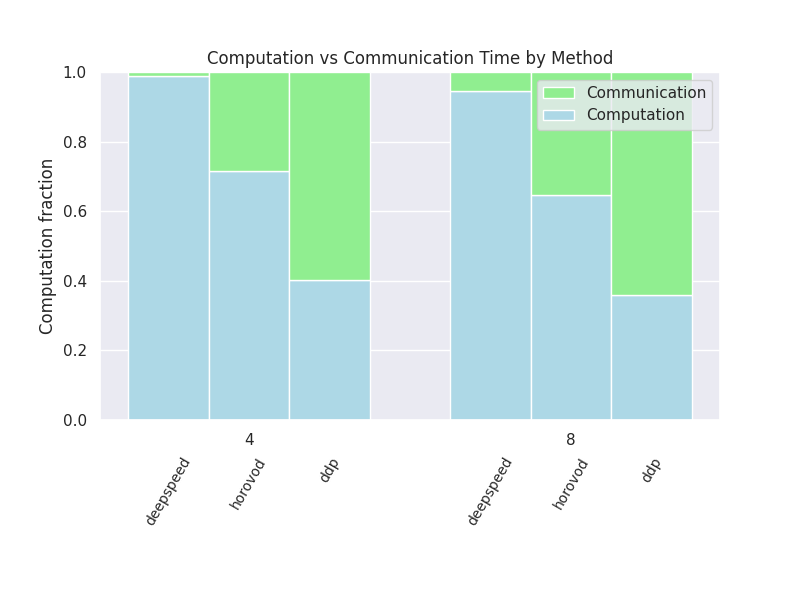
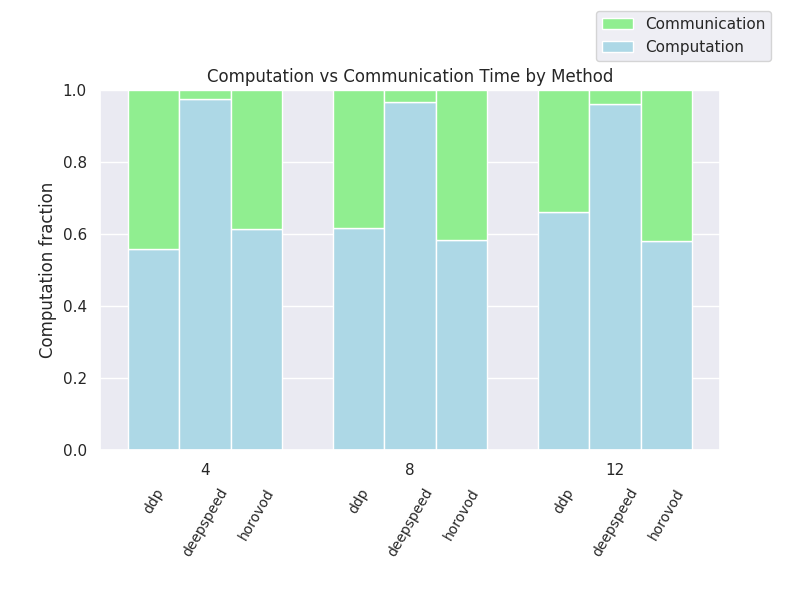
add docstrings etc.

diff --git a/scaling-test/plot.py b/scaling-test/plot.py
@@ -1,25 +1,28 @@
-from typing import List, Tuple, Any
+from typing import Any, List, Tuple
 
 import matplotlib.pyplot as plt
 import numpy as np
 from matplotlib.patches import Patch
 
 
-def create_stacked_plot(values: np.ndarray, strategy_labels: List, gpu_numbers: List) -> Tuple[Any, Any]:
-    """Creates a stacked plot showing values from 0 to 1, where the given value 
-    will be placed on the bottom and the complement will be placed on top for 
-    each value in 'values'. 
-    
-    Notes: 
-        - Assumes that the rows of 'values' correspond to the labels in 
-            'strategy_labels' sorted alphabetically and that the columns 
-            correspond to the GPU numbers in 'gpu_numbers' sorted numerically 
-            in ascending order. 
+def create_stacked_plot(
+    values: np.ndarray, strategy_labels: List, gpu_numbers: List
+) -> Tuple[Any, Any]:
+    """Creates a stacked plot showing values from 0 to 1, where the given value
+    will be placed on the bottom and the complement will be placed on top for
+    each value in 'values'. Returns the figure and the axis so that the caller can
+    do what they want with it, e.g. save to file, change it or just show it.
+
+    Notes:
+        - Assumes that the rows of 'values' correspond to the labels in
+            'strategy_labels' sorted alphabetically and that the columns
+            correspond to the GPU numbers in 'gpu_numbers' sorted numerically
+            in ascending order.
     """
     assert values.shape[0] == len(strategy_labels)
     assert values.shape[1] == len(gpu_numbers)
     assert (values >= 0).all() and (values <= 1).all()
-    
+
     strategy_labels = sorted(strategy_labels)
     gpu_numbers = sorted(gpu_numbers, key=lambda x: int(x))
 
@@ -77,6 +80,15 @@ def create_stacked_plot(values: np.ndarray, strategy_labels: List, gpu_numbers: 
         Patch(facecolor=comm_color, label="Communication"),
         Patch(facecolor=comp_color, label="Computation"),
     ]
-    ax.legend(handles=legend_elements, loc="upper right")
-    fig.subplots_adjust(bottom=0.3)
+    # ax.legend(handles=legend_elements, loc="upper right")
+    # ax.legend(handles=legend_elements, loc="upper right", bbox_to_anchor=(1.2, 1))
+
+    ax.legend(
+        handles=legend_elements,
+        loc="upper left",  # Anchor point of the legend
+        bbox_to_anchor=(0.80, 1.22),  # Position outside the plot
+        borderaxespad=0.0,  # No padding between legend and axes
+    )
+    fig.subplots_adjust(bottom=0.25)
+    fig.subplots_adjust(top=0.85)
     return fig, ax

diff --git a/scaling-test/generate_comm_plot.py b/scaling-test/generate_comm_plot.py
@@ -7,6 +7,7 @@ matplotlib.use("Agg")
 import argparse
 import re
 from pathlib import Path
+from re import Pattern
 
 import matplotlib.pyplot as plt
 import numpy as np
@@ -24,10 +25,10 @@ def create_combined_comm_overhead_df(logs_dir: Path, pattern: str) -> pd.DataFra
     the first one is the strategy, the second one the number of GPUs and the
     third one the global rank of the worker.
     """
-    pattern = re.compile(pattern)
+    re_pattern: Pattern = re.compile(pattern)
     dataframes = []
     for entry in logs_dir.iterdir():
-        match = pattern.search(str(entry))
+        match = re_pattern.search(str(entry))
         if not match:
             continue
 
@@ -45,9 +46,9 @@ def create_combined_comm_overhead_df(logs_dir: Path, pattern: str) -> pd.DataFra
 
 
 def get_comp_fraction_full_array(df: pd.DataFrame) -> np.ndarray:
-    """Creates a MxN NumPy array where M is the number of strategies 
-    and N is the number of GPU configurations. The strategies are sorted 
-    alphabetically and the GPU configurations are sorted in ascending number 
+    """Creates a MxN NumPy array where M is the number of strategies
+    and N is the number of GPU configurations. The strategies are sorted
+    alphabetically and the GPU configurations are sorted in ascending number
     of GPUs."""
     unique_num_gpus = sorted(df["num_gpus"].unique(), key=lambda x: int(x))
     unique_strategies = sorted(df["strategy"].unique())
@@ -89,7 +90,7 @@ def main():
     args = parser.parse_args()
 
     logs_dir = Path("logs")
-    pattern = f"profile_(\w+)_(\d+)_(\d+)\.csv$"
+    pattern = r"profile_(\w+)_(\d+)_(\d+)\.csv$"
     df = create_combined_comm_overhead_df(logs_dir=logs_dir, pattern=pattern)
     values = get_comp_fraction_full_array(df)
 
@@ -97,7 +98,7 @@ def main():
     gpu_numbers = sorted(df["num_gpus"].unique(), key=lambda x: int(x))
 
     # Generating and showing the plot
-    fig, ax = create_stacked_plot(values, strategies, gpu_numbers)
+    fig, _ = create_stacked_plot(values, strategies, gpu_numbers)
     fig.set_figwidth(8)
     fig.set_figheight(6)
 

diff --git a/scaling-test/utils.py b/scaling-test/utils.py
@@ -21,13 +21,13 @@ def calculate_comp_and_comm_time(df: pd.DataFrame) -> Tuple[float, float]:
         r"ncclKernel_(?:AllReduce|Broadcast|Reduce|AllGather|ReduceScatter)"
     )
     cuda_stream_pattern = r"cudaStream(?:WaitEvent|Synchronize)"
-    
+
     # Any operation that is a part of PyTorch's ATen library is considered a computation
     aten_comp_pattern = r"aten::"
 
     comm_df = df[
-        (df["name"].str.contains(nccl_comm_pattern)) | 
-        (df["name"].str.contains(cuda_stream_pattern))
+        (df["name"].str.contains(nccl_comm_pattern))
+        | (df["name"].str.contains(cuda_stream_pattern))
     ]
     comp_df = df[df["name"].str.contains(aten_comp_pattern)]
 

diff --git a/scaling-test/profiler.py b/scaling-test/profiler.py
@@ -43,7 +43,7 @@ def main():
     train_dataset = imagenet_dataset(args.data_dir)
 
     # Only consider the first 1000 elements
-    indices = list(range(2000))
+    indices = list(range(4000))
     train_dataset = Subset(train_dataset, indices)
 
     model = torchvision.models.resnet152()
